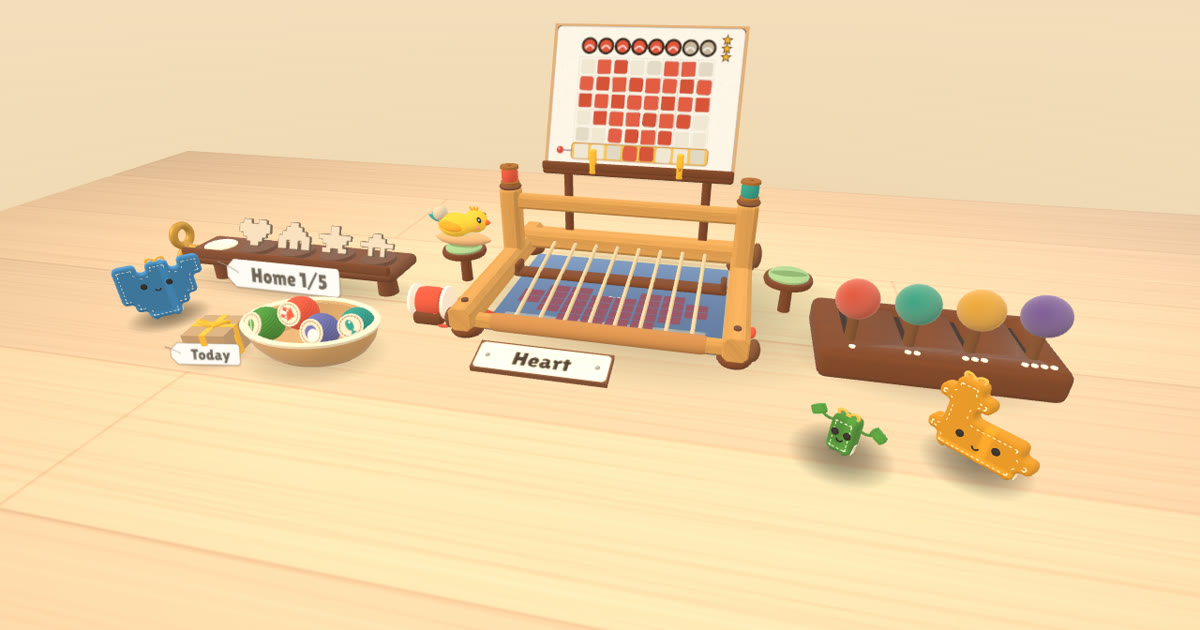
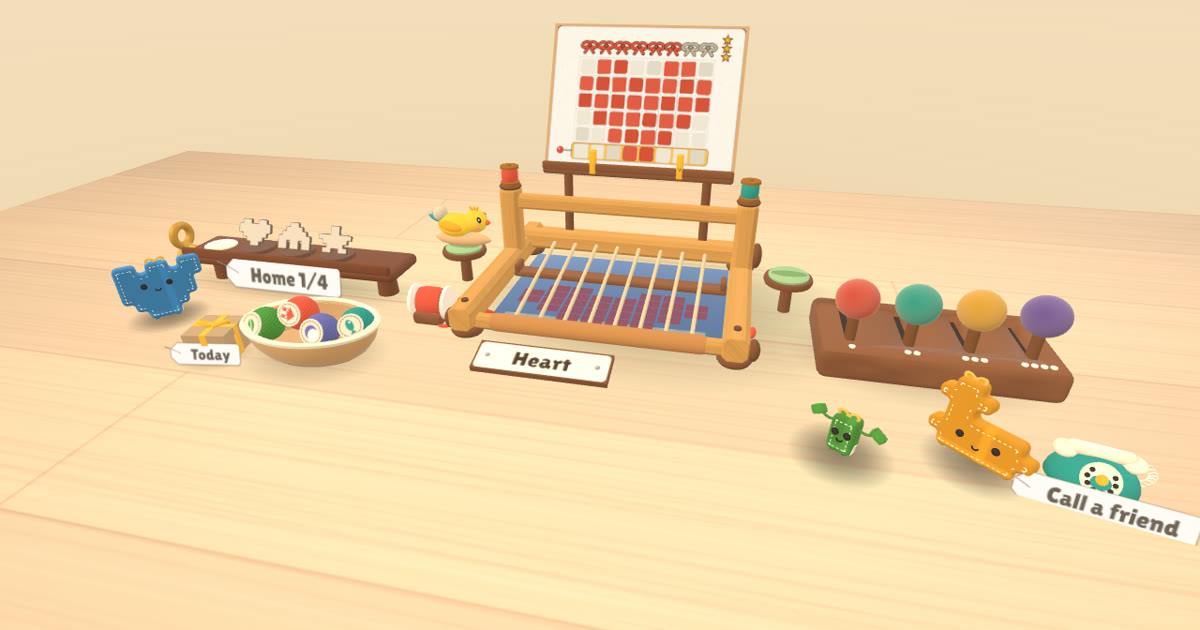
A Sea friend and a clean gallery: the Jellyfish (the Sea's last picture) needs the Crab, whose feet alone reach the outer threads (the daily Jellyfish is now the Squid); a stray confetti heart that sat in the middle of the loom from the start is gone (the last piece mesh's spare instance was never h

diff --git a/src/puzzle/pictures.gen.ts b/src/puzzle/pictures.gen.ts
@@ -47,7 +47,8 @@ export const CHAPTERS: Chapter[] = [
       "fish",
       "crab",
       "octopus",
-      "boat"
+      "boat",
+      "jellyfish"
     ]
   }
 ];
@@ -565,6 +566,37 @@ export const PICTURES: PictureLevel[] = [
     ],
     "par": 9,
     "rootMidi": 64
+  },
+  {
+    "id": "jellyfish",
+    "name": "Jellyfish",
+    "chapter": "sea",
+    "mystery": true,
+    "color": 0xc77dd6,
+    "friend": 165,
+    "picture": [
+      "..####..",
+      ".######.",
+      "########",
+      "#.#..#.#",
+      ".#.##.#.",
+      "..#..#.."
+    ],
+    "tieUp": [
+      36,
+      24,
+      66
+    ],
+    "target": [
+      36,
+      90,
+      165,
+      255,
+      126,
+      60
+    ],
+    "par": 10,
+    "rootMidi": 69
   }
 ];
 
@@ -599,7 +631,7 @@ export const DAILY: PictureLevel[] = [
       24
     ],
     "par": 7,
-    "rootMidi": 69
+    "rootMidi": 62
   },
   {
     "id": "day-mushroom",
@@ -628,7 +660,7 @@ export const DAILY: PictureLevel[] = [
       60
     ],
     "par": 9,
-    "rootMidi": 62
+    "rootMidi": 60
   },
   {
     "id": "day-pine",
@@ -659,7 +691,7 @@ export const DAILY: PictureLevel[] = [
       24
     ],
     "par": 9,
-    "rootMidi": 60
+    "rootMidi": 65
   },
   {
     "id": "day-pear",
@@ -690,7 +722,7 @@ export const DAILY: PictureLevel[] = [
       48
     ],
     "par": 9,
-    "rootMidi": 65
+    "rootMidi": 67
   },
   {
     "id": "day-key",
@@ -716,7 +748,7 @@ export const DAILY: PictureLevel[] = [
       6
     ],
     "par": 7,
-    "rootMidi": 67
+    "rootMidi": 64
   },
   {
     "id": "day-rabbit",
@@ -747,7 +779,7 @@ export const DAILY: PictureLevel[] = [
       20
     ],
     "par": 7,
-    "rootMidi": 64
+    "rootMidi": 69
   },
   {
     "id": "day-sun",
@@ -778,7 +810,7 @@ export const DAILY: PictureLevel[] = [
       153
     ],
     "par": 8,
-    "rootMidi": 69
+    "rootMidi": 62
   },
   {
     "id": "day-crown",
@@ -805,7 +837,7 @@ export const DAILY: PictureLevel[] = [
       153
     ],
     "par": 6,
-    "rootMidi": 62
+    "rootMidi": 60
   },
   {
     "id": "day-butterfly",
@@ -836,7 +868,7 @@ export const DAILY: PictureLevel[] = [
       195
     ],
     "par": 8,
-    "rootMidi": 60
+    "rootMidi": 65
   },
   {
     "id": "day-snowman",
@@ -867,7 +899,7 @@ export const DAILY: PictureLevel[] = [
       24
     ],
     "par": 7,
-    "rootMidi": 65
+    "rootMidi": 67
   },
   {
     "id": "day-icecream",
@@ -898,7 +930,7 @@ export const DAILY: PictureLevel[] = [
       60
     ],
     "par": 8,
-    "rootMidi": 67
+    "rootMidi": 64
   },
   {
     "id": "day-frog",
@@ -927,7 +959,7 @@ export const DAILY: PictureLevel[] = [
       102
     ],
     "par": 12,
-    "rootMidi": 64
+    "rootMidi": 69
   },
   {
     "id": "day-bear",
@@ -956,7 +988,7 @@ export const DAILY: PictureLevel[] = [
       195
     ],
     "par": 12,
-    "rootMidi": 69
+    "rootMidi": 62
   },
   {
     "id": "day-rocket",
@@ -987,7 +1019,7 @@ export const DAILY: PictureLevel[] = [
       24
     ],
     "par": 5,
-    "rootMidi": 62
+    "rootMidi": 60
   },
   {
     "id": "day-candle",
@@ -1018,7 +1050,7 @@ export const DAILY: PictureLevel[] = [
       8
     ],
     "par": 7,
-    "rootMidi": 60
+    "rootMidi": 65
   },
   {
     "id": "day-gift",
@@ -1049,7 +1081,7 @@ export const DAILY: PictureLevel[] = [
       36
     ],
     "par": 9,
-    "rootMidi": 65
+    "rootMidi": 67
   },
   {
     "id": "day-anchor",
@@ -1080,7 +1112,7 @@ export const DAILY: PictureLevel[] = [
       24
     ],
     "par": 11,
-    "rootMidi": 67
+    "rootMidi": 64
   },
   {
     "id": "day-acorn",
@@ -1111,7 +1143,7 @@ export const DAILY: PictureLevel[] = [
       24
     ],
     "par": 7,
-    "rootMidi": 64
+    "rootMidi": 69
   },
   {
     "id": "day-ladybug",
@@ -1142,11 +1174,11 @@ export const DAILY: PictureLevel[] = [
       36
     ],
     "par": 11,
-    "rootMidi": 69
+    "rootMidi": 62
   },
   {
     "id": "day-jelly",
-    "name": "Jellyfish",
+    "name": "Squid",
     "chapter": "daily",
     "mystery": false,
     "color": 0xc77dd6,
@@ -1173,7 +1205,7 @@ export const DAILY: PictureLevel[] = [
       60
     ],
     "par": 7,
-    "rootMidi": 62
+    "rootMidi": 60
   },
   {
     "id": "day-robot",
@@ -1204,6 +1236,6 @@ export const DAILY: PictureLevel[] = [
       24
     ],
     "par": 9,
-    "rootMidi": 60
+    "rootMidi": 65
   }
 ];

diff --git a/src/ui/target-card.ts b/src/ui/target-card.ts
@@ -440,27 +440,39 @@ export function drawArrow(g: CanvasRenderingContext2D, x: number, y: number, s: 
 
 function drawKnot(g: CanvasRenderingContext2D, x: number, y: number, r: number, color: string, spent: boolean, hc: boolean) {
   g.save();
-  g.beginPath();
-  g.arc(x, y, r, 0, Math.PI * 2);
-  g.lineWidth = r * (hc ? 0.5 : 0.35);
-  g.strokeStyle = '#3b2a20';
+  g.lineCap = 'round';
+  g.lineJoin = 'round';
   if (!spent) {
-    g.fillStyle = color;
-    g.fill();
-    // a little twist line so it reads as yarn, not a dot
-    g.stroke();
+    // a little bow of yarn: two loops, the knot, two tails; each lever move unties one
+    const yarn = (w: number, c: string) => {
+      g.lineWidth = w;
+      g.strokeStyle = c;
+      g.beginPath();
+      g.ellipse(x - r * 0.55, y - r * 0.12, r * 0.55, r * 0.36, -0.35, 0, Math.PI * 2);
+      g.moveTo(x + r * 1.1, y - r * 0.12);
+      g.ellipse(x + r * 0.55, y - r * 0.12, r * 0.55, r * 0.36, 0.35, 0, Math.PI * 2);
+      g.moveTo(x - r * 0.08, y + r * 0.1);
+      g.quadraticCurveTo(x - r * 0.35, y + r * 0.55, x - r * 0.62, y + r * 0.95);
+      g.moveTo(x + r * 0.08, y + r * 0.1);
+      g.quadraticCurveTo(x + r * 0.35, y + r * 0.55, x + r * 0.62, y + r * 0.95);
+      g.stroke();
+    };
+    yarn(r * (hc ? 0.62 : 0.5), '#3b2a20'); // an ink edge
+    yarn(r * (hc ? 0.4 : 0.32), hc ? '#000000' : color);
+    g.fillStyle = hc ? '#000000' : color;
+    g.strokeStyle = '#3b2a20';
+    g.lineWidth = r * 0.12;
     g.beginPath();
-    g.moveTo(x - r * 0.6, y + r * 0.4);
-    g.quadraticCurveTo(x, y - r * 0.5, x + r * 0.6, y + r * 0.4);
-    g.strokeStyle = 'rgba(255,255,255,0.7)';
-    g.lineWidth = r * 0.25;
+    g.arc(x, y - r * 0.05, r * 0.24, 0, Math.PI * 2);
+    g.fill();
     g.stroke();
   } else {
-    // spent: an empty, solid pale slot (not a dashed outline that reads as overlap)
-    g.fillStyle = '#e4dccb';
-    g.fill();
-    g.lineWidth = r * 0.18;
-    g.strokeStyle = 'rgba(59,42,32,0.35)';
+    // untied: a loose strand lying where the bow was
+    g.lineWidth = r * 0.26;
+    g.strokeStyle = 'rgba(59,42,32,0.3)';
+    g.beginPath();
+    g.moveTo(x - r * 0.95, y + r * 0.2);
+    g.bezierCurveTo(x - r * 0.4, y - r * 0.5, x + r * 0.1, y + r * 0.6, x + r * 0.95, y - r * 0.1);
     g.stroke();
   }
   g.restore();

diff --git a/src/loom/quilt.ts b/src/loom/quilt.ts
@@ -84,18 +84,39 @@ export function buildQuilt(title: string, panels: readonly QuiltPanel[], font = 
         }
       }
     } else if (k > panels.length) {
-      // a spare patch: a plain square with a quilted diamond
-      x.strokeStyle = 'rgba(70,45,25,0.45)';
-      x.lineWidth = 3;
-      x.setLineDash([9, 6]);
+      // a spare patch: Pip, the loom's bird, appliquéd in felt (the quilter's mark)
+      const cx = px + patchW / 2;
+      const cy = py + patchH / 2 + patchH * 0.06;
+      const u = Math.min(patchW, patchH) / 100;
+      x.lineWidth = 2.5;
+      x.setLineDash([6, 5]);
+      x.strokeStyle = 'rgba(70,45,25,0.55)';
+      x.fillStyle = '#f7c948';
       x.beginPath();
-      x.moveTo(px + patchW / 2, py + 24);
-      x.lineTo(px + patchW - 24, py + patchH / 2);
-      x.lineTo(px + patchW / 2, py + patchH - 24);
-      x.lineTo(px + 24, py + patchH / 2);
-      x.closePath();
+      x.ellipse(cx - 6 * u, cy + 6 * u, 26 * u, 19 * u, 0, 0, Math.PI * 2); // body
+      x.fill();
+      x.stroke();
+      x.beginPath();
+      x.arc(cx + 14 * u, cy - 12 * u, 15 * u, 0, Math.PI * 2); // head
+      x.fill();
+      x.stroke();
+      x.fillStyle = '#f2a83a';
+      x.beginPath();
+      x.ellipse(cx - 12 * u, cy + 6 * u, 13 * u, 8 * u, -0.3, 0, Math.PI * 2); // wing
+      x.fill();
       x.stroke();
       x.setLineDash([]);
+      x.fillStyle = '#f08a3c';
+      x.beginPath();
+      x.moveTo(cx + 27 * u, cy - 15 * u);
+      x.lineTo(cx + 38 * u, cy - 11 * u);
+      x.lineTo(cx + 27 * u, cy - 7 * u);
+      x.closePath();
+      x.fill(); // beak
+      x.fillStyle = '#2b2320';
+      x.beginPath();
+      x.arc(cx + 18 * u, cy - 15 * u, 2.6 * u, 0, Math.PI * 2);
+      x.fill(); // a button eye
     } else {
       // the name patch: big embroidered letters with a stitched outline
       const size = Math.min(patchH * 0.42, (patchW * 1.6) / Math.max(4, title.length));

diff --git a/src/app/game-system.ts b/src/app/game-system.ts
@@ -1639,7 +1639,7 @@ export class GameSystem extends createSystem({
     this.view.daily.hover(isKind(c.hover.left, 'daily') || isKind(c.hover.right, 'daily'));
     // the toy telephone: once the first picture is done (never in the first minutes), not during the finale
     const ph = this.view.phone;
-    ph.root.visible = this.progress.tutorialDone && !this.grand && !this.photoMode;
+    ph.root.visible = this.progress.tutorialDone && !this.grand;
     this.phoneVec.set(this.controller.bankSide * TOY_PHONE.x, TOY_PHONE.y, TOY_PHONE.z);
     c.phoneSpot = ph.root.visible && this.flow?.phase === 'play' && !this.flow.challenge ? this.phoneVec : null;
     ph.hover(isKind(c.hover.left, 'phone') || isKind(c.hover.right, 'phone'));

diff --git a/src/loom/fx.ts b/src/loom/fx.ts
@@ -141,7 +141,9 @@ export class Fx {
       this.root.add(m);
     }
     for (let i = 0; i < PUFFS; i++) this.hide(this.puffs, i);
-    for (let i = 0; i < BITS; i++) this.hide(this.bitMeshes[i % 3], Math.floor(i / 3));
+    // every instance of every piece mesh starts hidden (170 pieces over three meshes of 57: the last mesh's
+    // spare instance used to keep its identity matrix and sat as a white felt heart in the middle of the loom)
+    for (const m of this.bitMeshes) for (let i = 0; i < m.count; i++) this.hide(m, i);
     const ringGeo = new RingGeometry(0.8, 1, 32);
     ringGeo.rotateX(-Math.PI / 2);
     for (let i = 0; i < RINGS; i++) {

diff --git a/README.md b/README.md
@@ -25,8 +25,8 @@ Hand tracking has no touch, so Loomsong puts every interaction on a real surface
 
 - **A quiet start.** The first picture shows only the loom, the card, Pip and two levers; the shelf springs up when your first plush is born, the basket and the daily present come after. The tutorial lets you find the two-lever trick yourself before it shows you.
 - **Hear before you weave.** Poke a row of the picture card and it plays that row's tune; a right row sounds the same when you weave it.
-- **17 hand-made pictures in four chapters.** Garden teaches that levers add up (the first picture already needs two levers at once). Home is mostly combinations. In Night, a lever's threads stay hidden until you try it (the first try of each is free). In Sea, rows of water need a second colour of yarn that you swap mid-picture. Every level has its own lever set; knots above the card count your moves, and the fewest moves earn three stars and a gold felt bow on that plush. Every chapter opens once the first picture is woven, so even a short visit reaches Night and the Sea.
-- **Your plushes help.** Some pictures need a friend: set a plush from your shelf or desk on the felt cushion in front of the loom and it lifts the threads under its feet (its picture's bottom row). Which friend, and when to lift it off again, is part of the puzzle. The Table, the last Garden picture, is the first; the Lantern at Night asks for a Night plush with the right feet.
+- **18 hand-made pictures in four chapters.** Garden teaches that levers add up (the first picture already needs two levers at once). Home is mostly combinations. In Night, a lever's threads stay hidden until you try it (the first try of each is free). In Sea, rows of water need a second colour of yarn that you swap mid-picture. Every level has its own lever set; knots above the card count your moves, and the fewest moves earn three stars and a gold felt bow on that plush. Every chapter opens once the first picture is woven, so even a short visit reaches Night and the Sea.
+- **Your plushes help.** Some pictures need a friend: set a plush from your shelf or desk on the felt cushion in front of the loom and it lifts the threads under its feet (its picture's bottom row). Which friend, and when to lift it off again, is part of the puzzle. The Table (Garden), the Lantern (Night) and the Jellyfish (Sea) each need a friend with the right feet; poke a plush to seat it or send it home, and felt strings show which threads it lifts.
 - **Pictures come alive.** A finished picture pops out as a stitched felt plush in its exact shape, dances on a little felt stage while its song plays, then hops onto the chapter shelf. Poke a plush and it sings its picture; turn the brass wind-up key and every plush plays in turn, like a music box. Finishing a chapter plays the whole shelf.
 - **Plushes on your desk.** Pinch a plush, carry it off the shelf and set it down anywhere on the table. It stays there between sessions. When the table is a detected surface, a plush only stays over it (drop it off the edge and it hops back). The wind-up key plays your plushes left to right as they stand, so arranging the desk rearranges the tune.
 - **Quilts on your wall.** Finish a chapter and its pictures, sewn into a little quilt, fly off the shelf and hang on the real wall straight ahead of your seat (found from the room's vertical planes; sized to read from the seat). They're there every session after, so your wall fills up as you play. No wall in the room data: no quilt is hung (nothing floats in the air).
